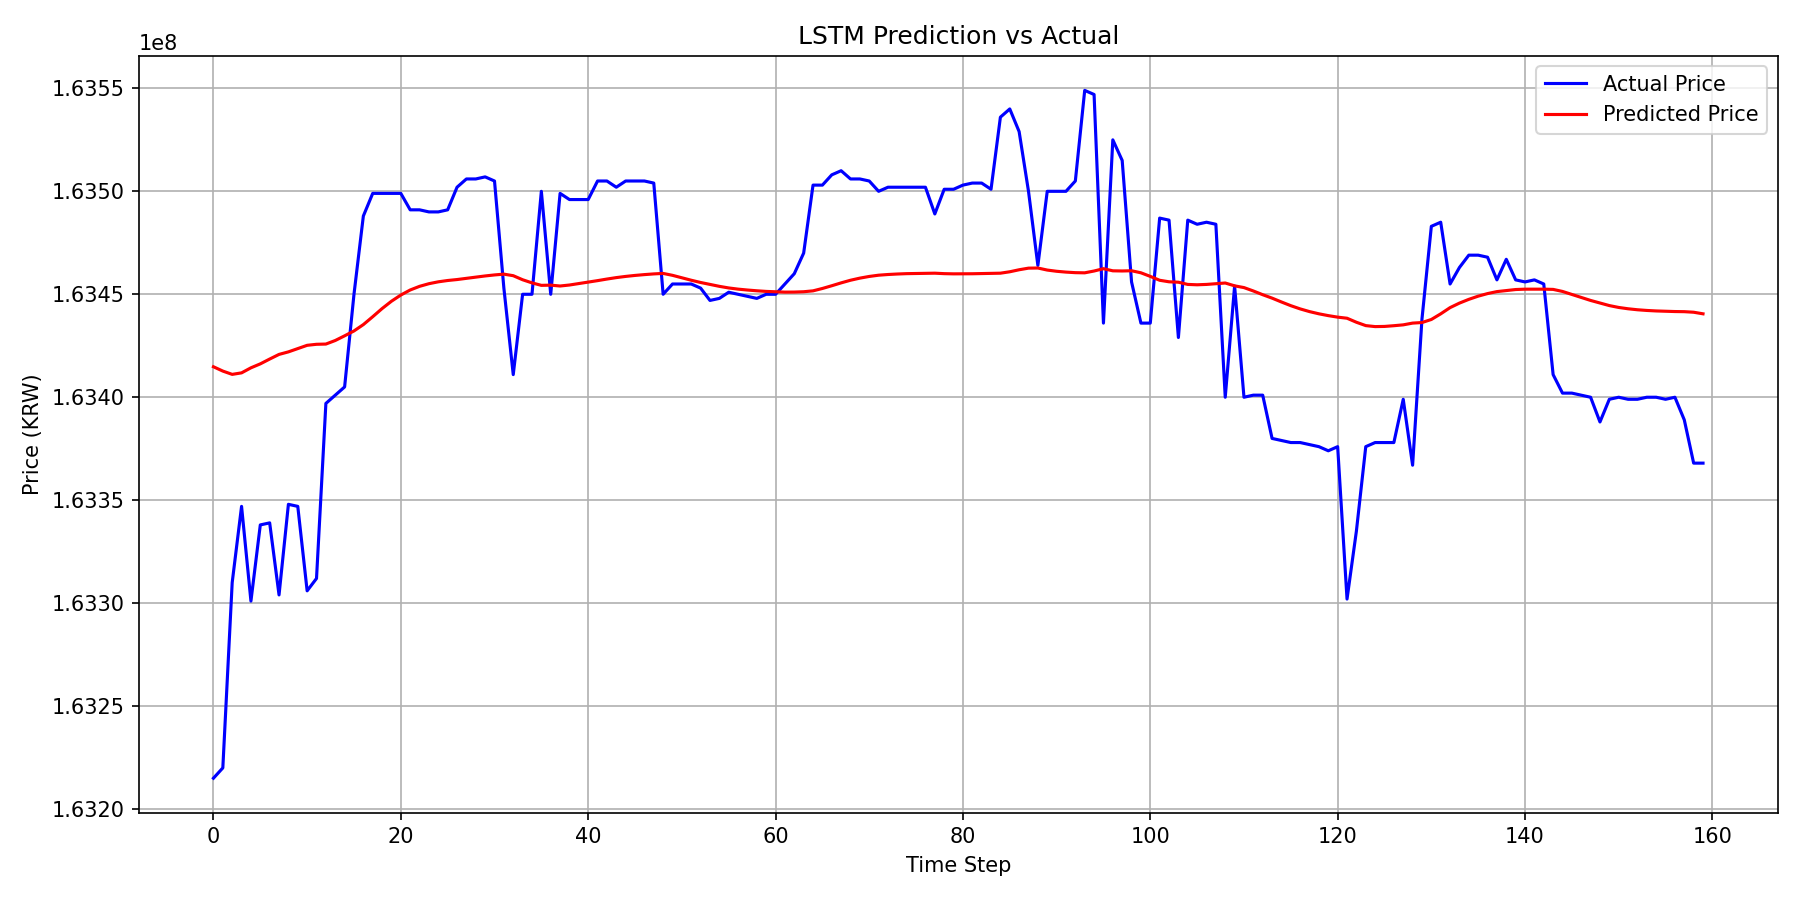
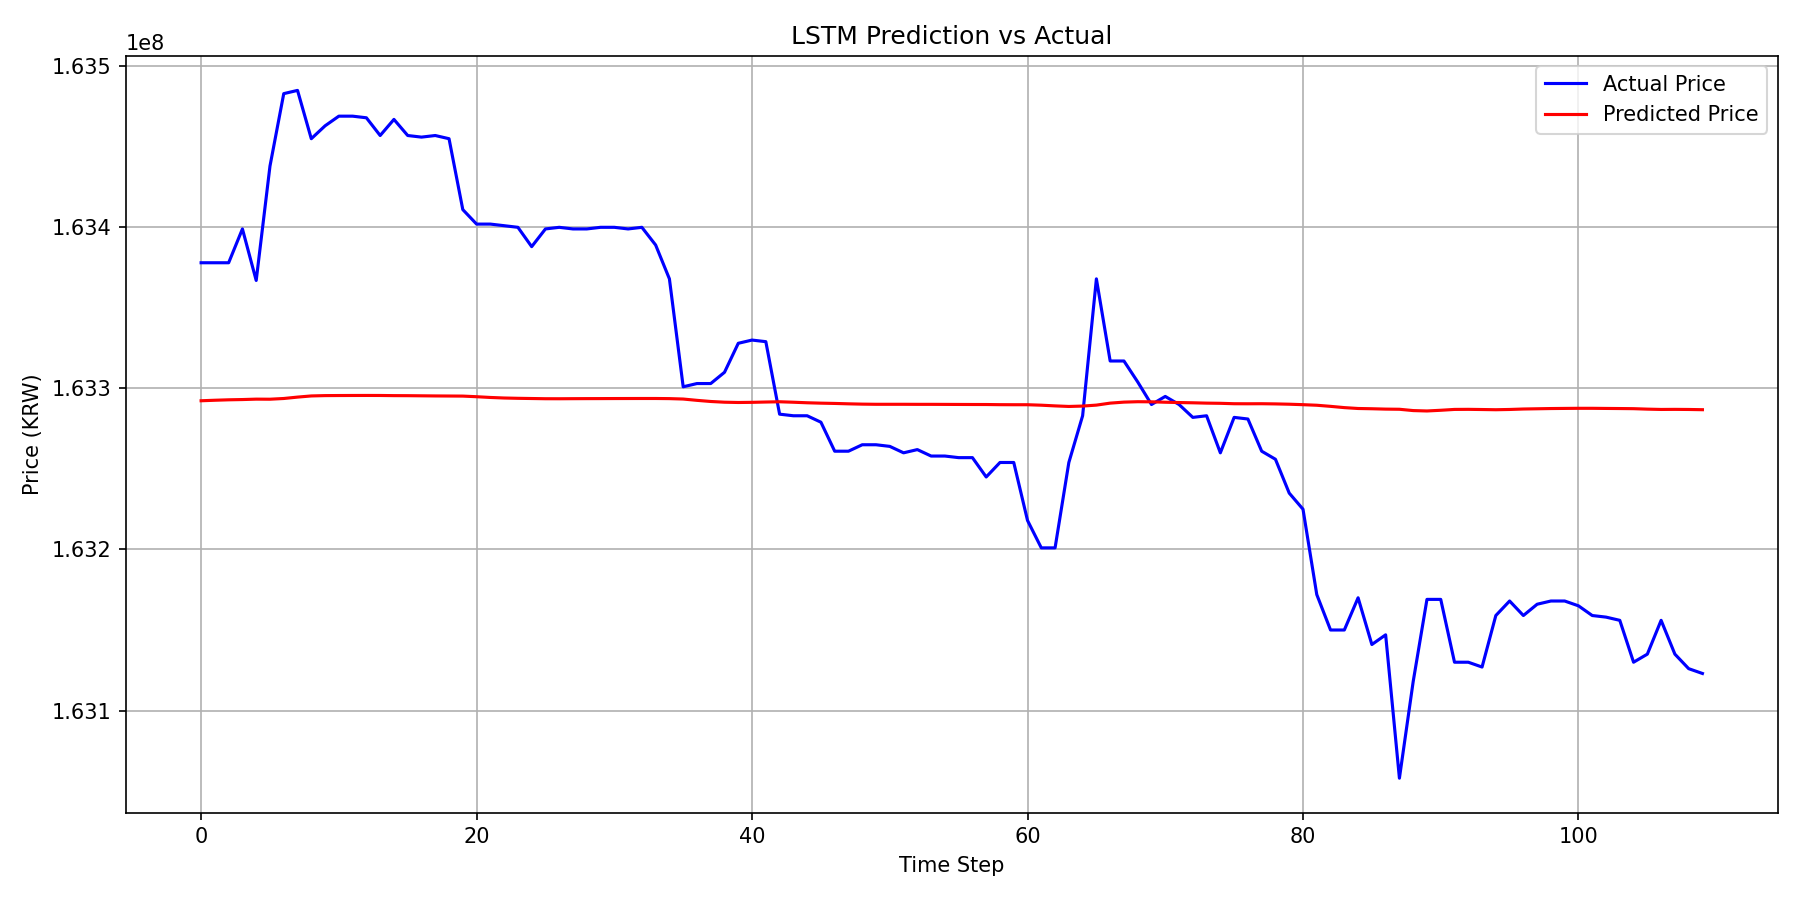
[feat] 재훈련 및 훈련 구조 수정

diff --git a/scripts/train_lstm.py b/scripts/train_lstm.py
@@ -7,8 +7,9 @@ from sklearn.preprocessing import MinMaxScaler
 from app.models.lstm_model import LSTMPricePredictor
 from app.services.data_loader import fetch_upbit_data
 import joblib
-from scripts.config_lstm import SEQ_LEN, HIDDEN_SIZE, NUM_LAYERS, LR, EPOCHS, COUNT, MODEL_PATH, SCALER_PATH
+from scripts.config_lstm import SEQ_LEN, HIDDEN_SIZE, NUM_LAYERS, LR, EPOCHS, COUNT,INPUT_SIZE,OUTPUT_SIZE, MODEL_PATH, SCALER_PATH
 import matplotlib.pyplot as plt
+from sklearn.metrics import mean_squared_error, mean_absolute_error, r2_score
 
 def make_sequences(data, seq_len=60):
     x, y = [], []
@@ -30,13 +31,13 @@ def train_lstm():
 
     x_data, y_data = make_sequences(scaled, seq_len=SEQ_LEN)
     x_tensor = torch.tensor(x_data).float()
-    y_tensor = torch.tensor(y_data).float()
+    y_tensor = torch.tensor(y_data).float().unsqueeze(1)
 
     model = LSTMPricePredictor(
-        input_size=1,
+        input_size=INPUT_SIZE,
         hidden_size=HIDDEN_SIZE,
         num_layers=NUM_LAYERS,
-        output_size=1
+        output_size=OUTPUT_SIZE
     )
     loss_fn = nn.MSELoss()
     optimizer = torch.optim.Adam(model.parameters(), lr=LR)
@@ -60,7 +61,7 @@ def train_lstm():
     joblib.dump(scaler, SCALER_PATH)
     print("✅ 모델 및 스케일러 저장 완료")
     
-    # 그래프 저장
+    # 손실 그래프 저장
     plt.figure(figsize=(10, 5))                  # 그래프 사이즈 지정 (선택)
     plt.plot(losses, label="Train Loss")
     plt.title("LSTM Training Loss")
@@ -72,13 +73,21 @@ def train_lstm():
     plt.savefig("lstm_loss.png", dpi=150)         #  해상도 업
     print("📉 Loss 그래프 저장 완료: lstm_loss.png")
     
-     # 예측 결과 그래프 추가
+     # 예측 결과 및 지표 계산
     model.eval()
     with torch.no_grad():
         predicted = model(x_tensor).numpy()
         predicted_prices = scaler.inverse_transform(predicted)
-        real_prices = scaler.inverse_transform(y_tensor.numpy())
+        y_np = y_tensor.squeeze(1).numpy()
+        real_prices = scaler.inverse_transform(y_np.reshape(-1, 1))
 
+    mse = mean_squared_error(real_prices, predicted_prices)
+    mae = mean_absolute_error(real_prices, predicted_prices)
+    r2 = r2_score(real_prices, predicted_prices)
+
+    print(f" MSE: {mse:.4f}, MAE: {mae:.4f}, R2: {r2:.4f}")
+
+    # 예측 그래프 저장
     plt.figure(figsize=(12, 6))
     plt.plot(real_prices, label="Actual Price", color="blue")
     plt.plot(predicted_prices, label="Predicted Price", color="red")
